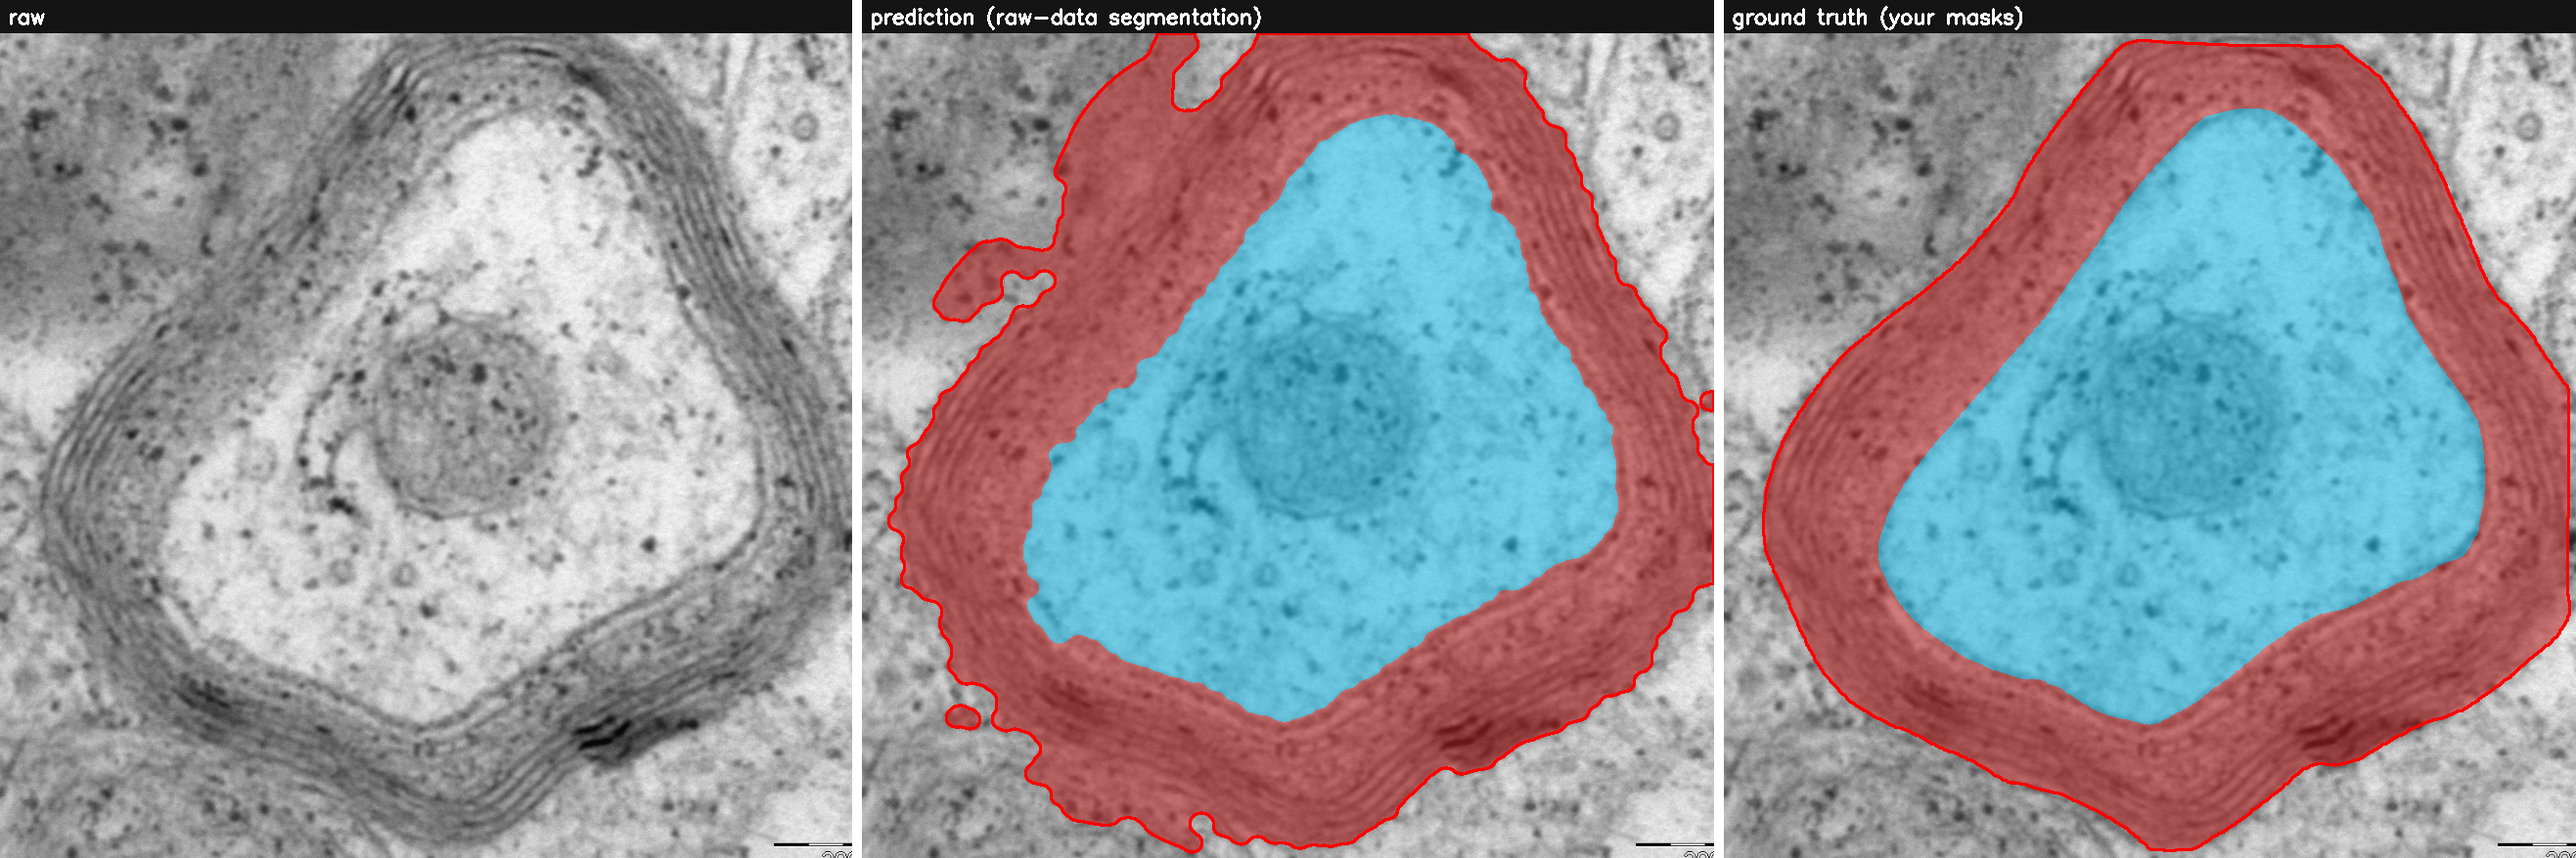
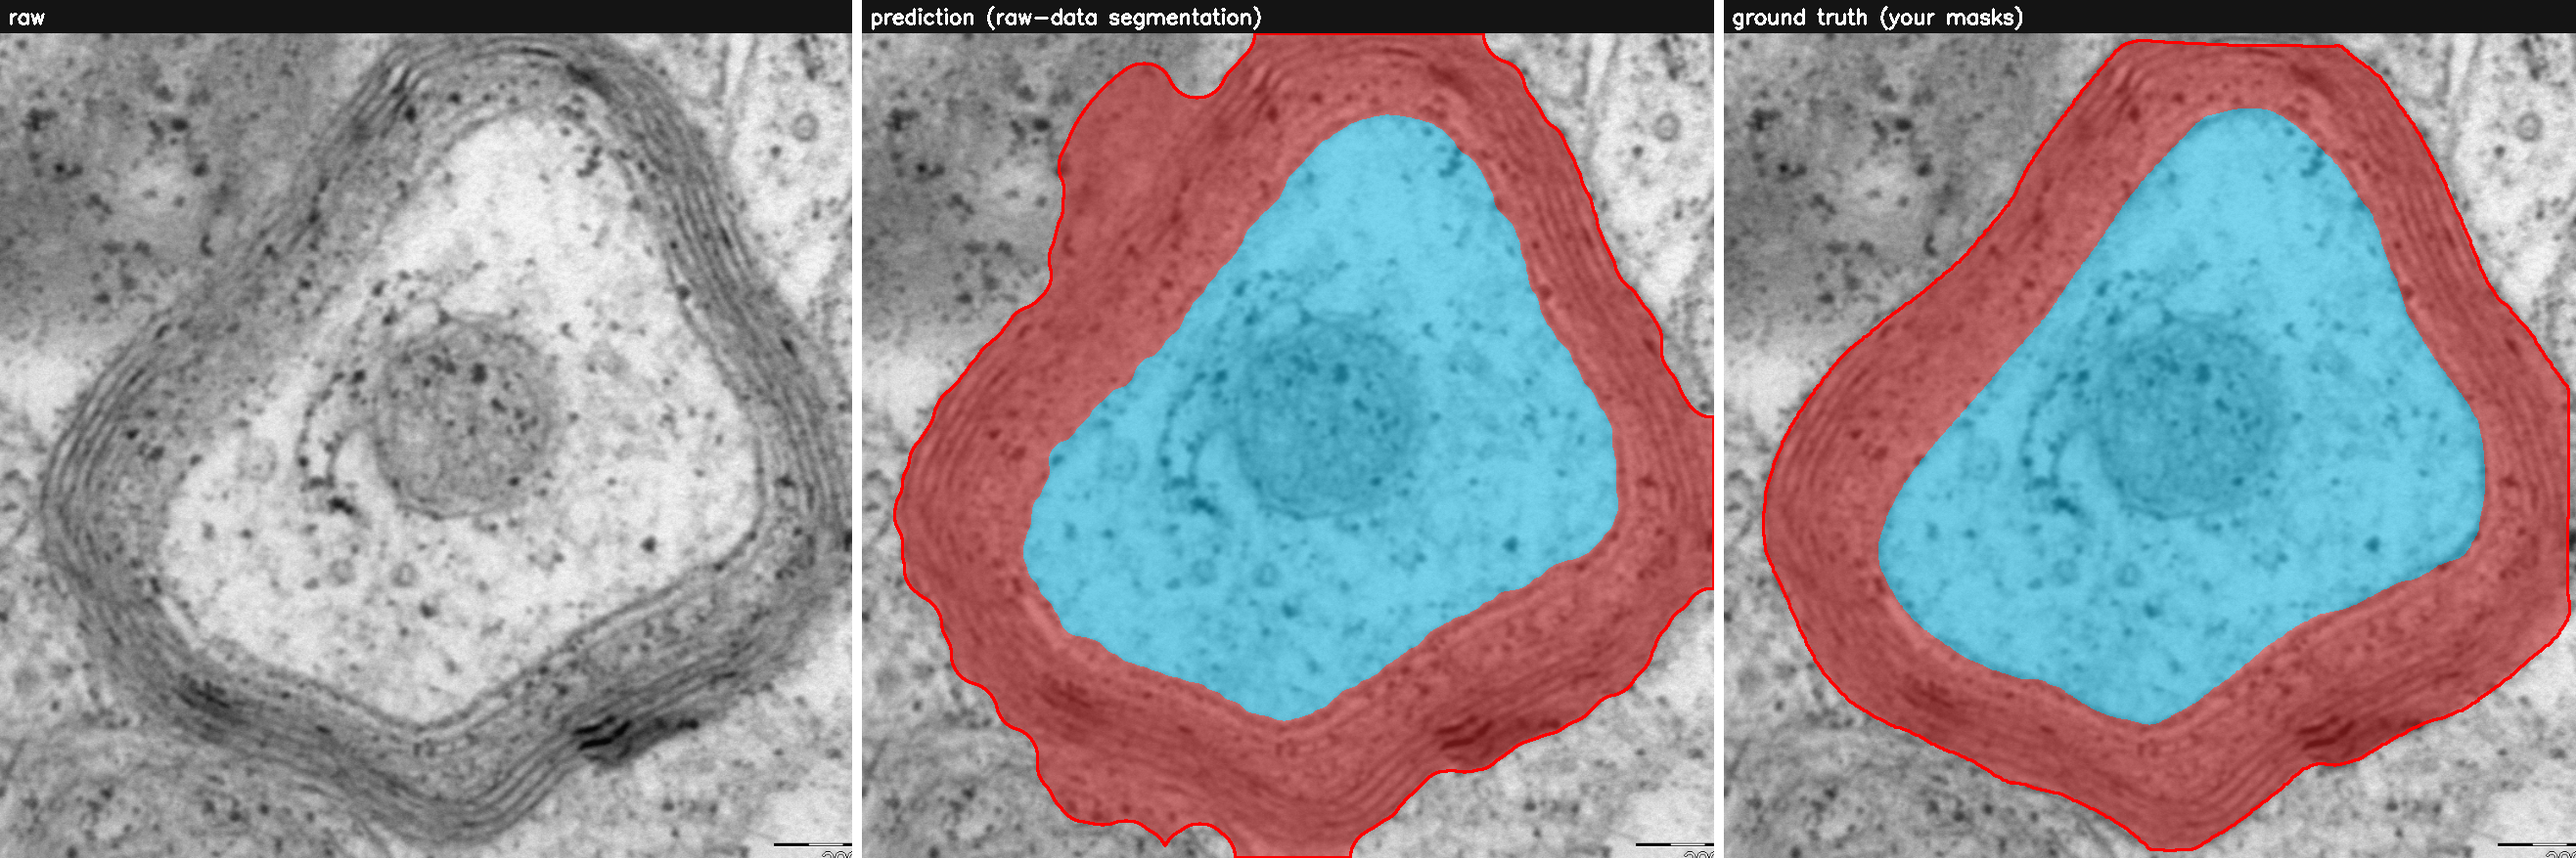
Smooth axon + fibre borders; per-axon numbered visualization
- axon_smooth_frac: smooth the peeled axon border into a clean rounded shape
  like a hand tracing (the peel itself is ragged). Axon IoU 0.929 -> 0.931.
- fiber_smooth_frac: smooth the fibre outer bound (open then close) into a clean
  envelope, removing the spiky extracellular over-reach flagged on sample_02.
  sample_02 fibre 0.90 -> 0.913, myelin 0.79 -> 0.81; sample_03 unchanged.
- outputs/eval/*_labeled.png: per-axon colour fills, per-fibre coloured myelin,
  numbered axon centres, bubbles in yellow, current vs your ground truth.

Means vs ground truth: axon 0.93, myelin 0.74, fibre 0.88, recall/precision 1.0.

Note: enclosing sample_01's bubbles (close/expand) and tightening sample_02's
outer bound (open/trim) are opposing morphological ops; this ships the fibre
smoothing (helps sample_02, neutral sample_03). sample_01 bubble-enclosure needs
a surgical intramyelin-vacuole detector -- next step.

Claude-Session: https://claude.ai/code/session_01APbuiGGpr8t768VjCngFXw

diff --git a/gratio/pipeline.py b/gratio/pipeline.py
@@ -74,6 +74,12 @@ DEFAULTS = dict(
                               # axoplasm vs dark myelin, peel the dark band inward from the fibre edge,
                               # and keep the bright core. This bias nudges the split darker so the border
                               # sits at the axolemma. Calibrated against the hand masks.
+    axon_smooth_frac=0.25,    # smooth the peeled axon border by this fraction of the axon radius, so it
+                              # is a clean rounded shape like a hand tracing (the peel itself is ragged)
+    axon_smooth_max=41,       # ...capped to this absolute kernel size
+    fiber_smooth_frac=0.2,    # smooth the fibre outer bound (open then close) by this fraction of the
+                              # axon radius, so it is a clean rounded envelope like a hand tracing
+                              # instead of a spiky outline that reaches into the extracellular space
     bubble_min_frac=0.02,     # a hole counts as a bubble if >= this fraction of the axon
     bubble_min_px=250,        # ...and at least this many pixels
 )
@@ -240,8 +246,19 @@ def segment(gray: np.ndarray, **overrides) -> dict:
         terr = (nearest == a['id']) | (nearest == 0)   # Voronoi territory (split touching fibers)
         k = min(a['r'] * P['smooth_frac'], P['smooth_max_px'])
         fm = _smooth(binary_fill_holes(a['body'] | (assigned == a['id'])) & terr, k)
-        # refine the axon border to the real inner-myelin edge (per-fibre Otsu peel)
-        am = _peel_axon(gf, fm, a['cx'], a['cy'], P['axon_otsu_bias'], k)
+        # smooth the fibre outer bound into a clean rounded envelope: open removes
+        # spiky protrusions reaching into the extracellular space, close fills small
+        # indentations. (A hand tracing is smooth; the raw myelin outline is not.)
+        if P['fiber_smooth_frac'] > 0 and fm.any():
+            ks2 = int(max(3, P['fiber_smooth_frac'] * a['r'])) | 1
+            el2 = cv2.getStructuringElement(cv2.MORPH_ELLIPSE, (ks2, ks2))
+            fm2 = cv2.morphologyEx(fm.astype(np.uint8), cv2.MORPH_OPEN, el2)
+            fm2 = cv2.morphologyEx(fm2, cv2.MORPH_CLOSE, el2)
+            fm = binary_fill_holes(fm2 > 0) & terr
+        # refine the axon border to the real inner-myelin edge (per-fibre Otsu peel),
+        # then smooth it into a clean rounded shape like a hand tracing
+        sk = min(P['axon_smooth_frac'] * a['r'], P['axon_smooth_max'])
+        am = _peel_axon(gf, fm, a['cx'], a['cy'], P['axon_otsu_bias'], sk)
         annulus = fm & ~am
         holes = annulus & ~myelin_mat
         hl, nh = cc_label(holes)

diff --git a/docs/reference/user_masks.md b/docs/reference/user_masks.md
@@ -125,12 +125,19 @@ no false positives**, then maximise class overlap.
 
 | sample     | axon IoU | myelin IoU | fibre IoU | detect P / R |
 |------------|---------:|-----------:|----------:|:------------:|
-| sample_01  | 0.88 | 0.58 | 0.78 | 1.00 / 1.00 |
-| sample_02  | 0.90 | 0.74 | 0.90 | 1.00 / 1.00 |
-| sample_03  | 0.91 | 0.82 | 0.96 | 1.00 / 1.00 |
-| **mean**   | **0.90** | **0.71** | **0.88** | **1.00 / 1.00** |
+| sample_01  | 0.91 | 0.58 | 0.78 | 1.00 / 1.00 |
+| sample_02  | 0.96 | 0.81 | 0.91 | 1.00 / 1.00 |
+| sample_03  | 0.92 | 0.82 | 0.96 | 1.00 / 1.00 |
+| **mean**   | **0.93** | **0.74** | **0.88** | **1.00 / 1.00** |
 
 (baseline before tuning was axon 0.74 / myelin 0.51 / fibre 0.80, recall 0.80.)
+
+Border refinements: the axon border is **smoothed** (`axon_smooth_frac`) and the
+fibre outer bound **smoothed** (`fiber_smooth_frac`, open+close) into clean
+rounded envelopes like a hand tracing — the fibre smoothing removes the spiky
+extracellular over-reach on sample_02. Masks are per-axon labelled;
+`outputs/eval/*_labeled.png` renders each axon in its own colour with a numbered
+centre for review.
 
 **What was wrong and how it was fixed.** The predicted axon border bulged
 outward into the myelin — axon too big, myelin too thin (the same effect that
